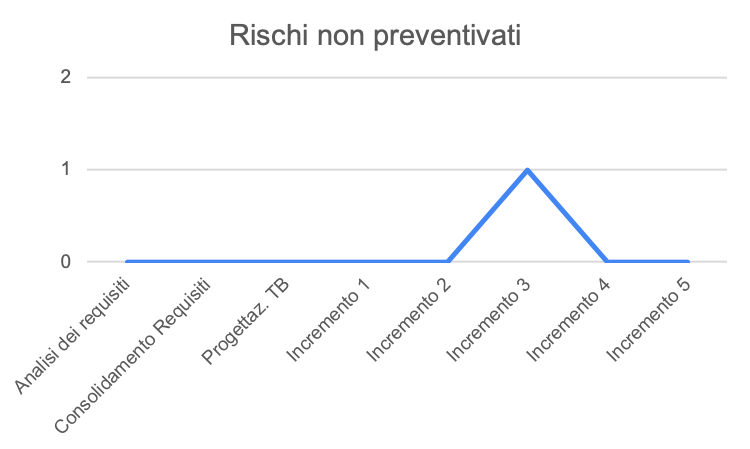
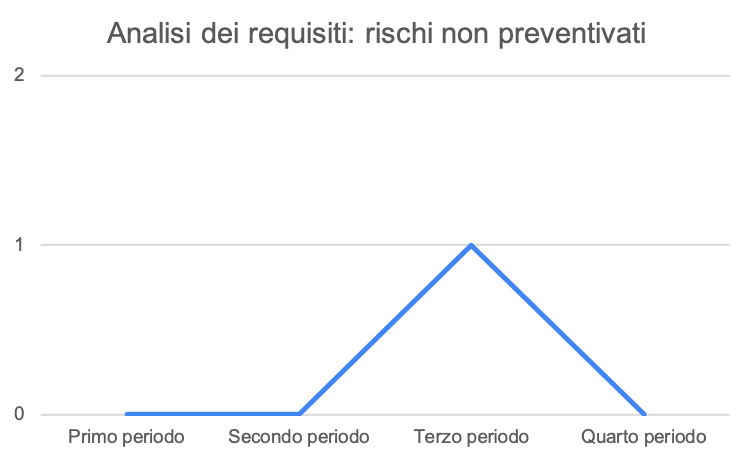
Aggiunti e sistemati grafici lagati alle rilevazioni dei rischi nel PdQ

diff --git a/esterni/piano_qualifica/res/sections/Sez5-Resoconto/Resoconto.tex b/esterni/piano_qualifica/res/sections/Sez5-Resoconto/Resoconto.tex
@@ -13,7 +13,7 @@ Per verificare che i costi stabiliti rientrino in quanto preventivato si trovano
 		\begin{figure}[H]
 			\centering
 			\includegraphics[width=0.8\linewidth]{./res/images/BCWS_1.png}
-			\caption{Grafico }
+			\caption{Grafico contenente il costo preventivato in Euro per fase}
 			\label{fig:Grafico contenente il costo preventivato in Euro per fase}
 		\end{figure}
 
@@ -21,7 +21,7 @@ Per verificare che i costi stabiliti rientrino in quanto preventivato si trovano
 		\begin{figure}[H]
 			\centering
 			\includegraphics[width=0.8\linewidth]{./res/images/ACWP_1.png}
-			\caption{Grafico }
+			\caption{Grafico contenente il costo effettivo in Euro per fase}
 			\label{fig:Grafico contenente il costo effettivo in Euro per fase}
 		\end{figure}
 
@@ -29,7 +29,7 @@ Per verificare che i costi stabiliti rientrino in quanto preventivato si trovano
 		\begin{figure}[H]
 			\centering
 			\includegraphics[width=0.8\linewidth]{./res/images/BCWP_1.png}
-			\caption{Grafico }
+			\caption{Grafico contenente il valore del prodotto in Euro per fase}
 			\label{fig:Grafico contenente il valore del prodotto in Euro per fase}
 		\end{figure}
 
@@ -37,7 +37,7 @@ Per verificare che i costi stabiliti rientrino in quanto preventivato si trovano
 		\begin{figure}[H]
 			\centering
 			\includegraphics[width=0.8\linewidth]{./res/images/SV_1.png}
-			\caption{Grafico }
+			\caption{Grafico contenente la schedule variance per fase}
 			\label{fig:Grafico contenente la schedule variance per fase}
 		\end{figure}
 
@@ -45,7 +45,7 @@ Per verificare che i costi stabiliti rientrino in quanto preventivato si trovano
 		\begin{figure}[H]
 			\centering
 			\includegraphics[width=0.8\linewidth]{./res/images/CV_1.png}
-			\caption{Grafico }
+			\caption{Grafico contenente la cost variance per fase}
 			\label{fig:Grafico contenente la cost variance per fase}
 		\end{figure}
 
@@ -54,17 +54,24 @@ Per monitorare i rischi non preventivati riscontrati durante l'avanzamento del p
 	
 	\begin{figure}[H]
 		\centering
-		\includegraphics[width=0.8\linewidth]{./res/images/rischi.png}
-		\caption{Grafico periodo/rischio nel periodo di analisi dei requisiti}
+		\includegraphics[width=0.8\linewidth]{./res/images/RischiNonPrevent_1.png}
+		\caption{Grafico periodo/rischio della fase di analisi dei requisiti}
 		\label{fig:Grafico periodo/rischio nel periodo di analisi dei requisiti}
 	\end{figure}
 	
 	\begin{figure}[H]
 			\centering
-			\includegraphics[width=0.8\linewidth]{./res/images/RischiNonPrevent_1.png}
-			\caption{Grafico }
-			\label{fig:Grafico i rischi non preventivati riscontrati in ogni fase}
-		\end{figure}
+			\includegraphics[width=0.8\linewidth]{./res/images/RischiNonPrevent_2.png}
+			\caption{Grafico Grafico periodo/rischio per la fase di consolidamento dei requisiti}
+			\label{fig:Grafico periodo/rischio per la fase di consolidamento dei requisiti}
+	\end{figure}
+
+	\begin{figure}[H]
+			\centering
+			\includegraphics[width=0.8\linewidth]{./res/images/RischiNonPrevent_3.png}
+			\caption{Grafico periodo/rischio per le fasi che vanno dalla progettazione della technology baseline all'incremento 5}
+			\label{fig:Grafico periodo/rischio per le fasi che vanno dalla progettazione della technology baseline all'incremento 5}
+	\end{figure}	
 
 \subsubsection{Calcolo leggibilità documenti}
 Per verificare quanto sono leggibili i documenti redatti si utilizza \glock{l'indice di Gulpease}, di seguito il grafico contenente i risultati ottenuti durante il periodo di analisi dei requisiti:
